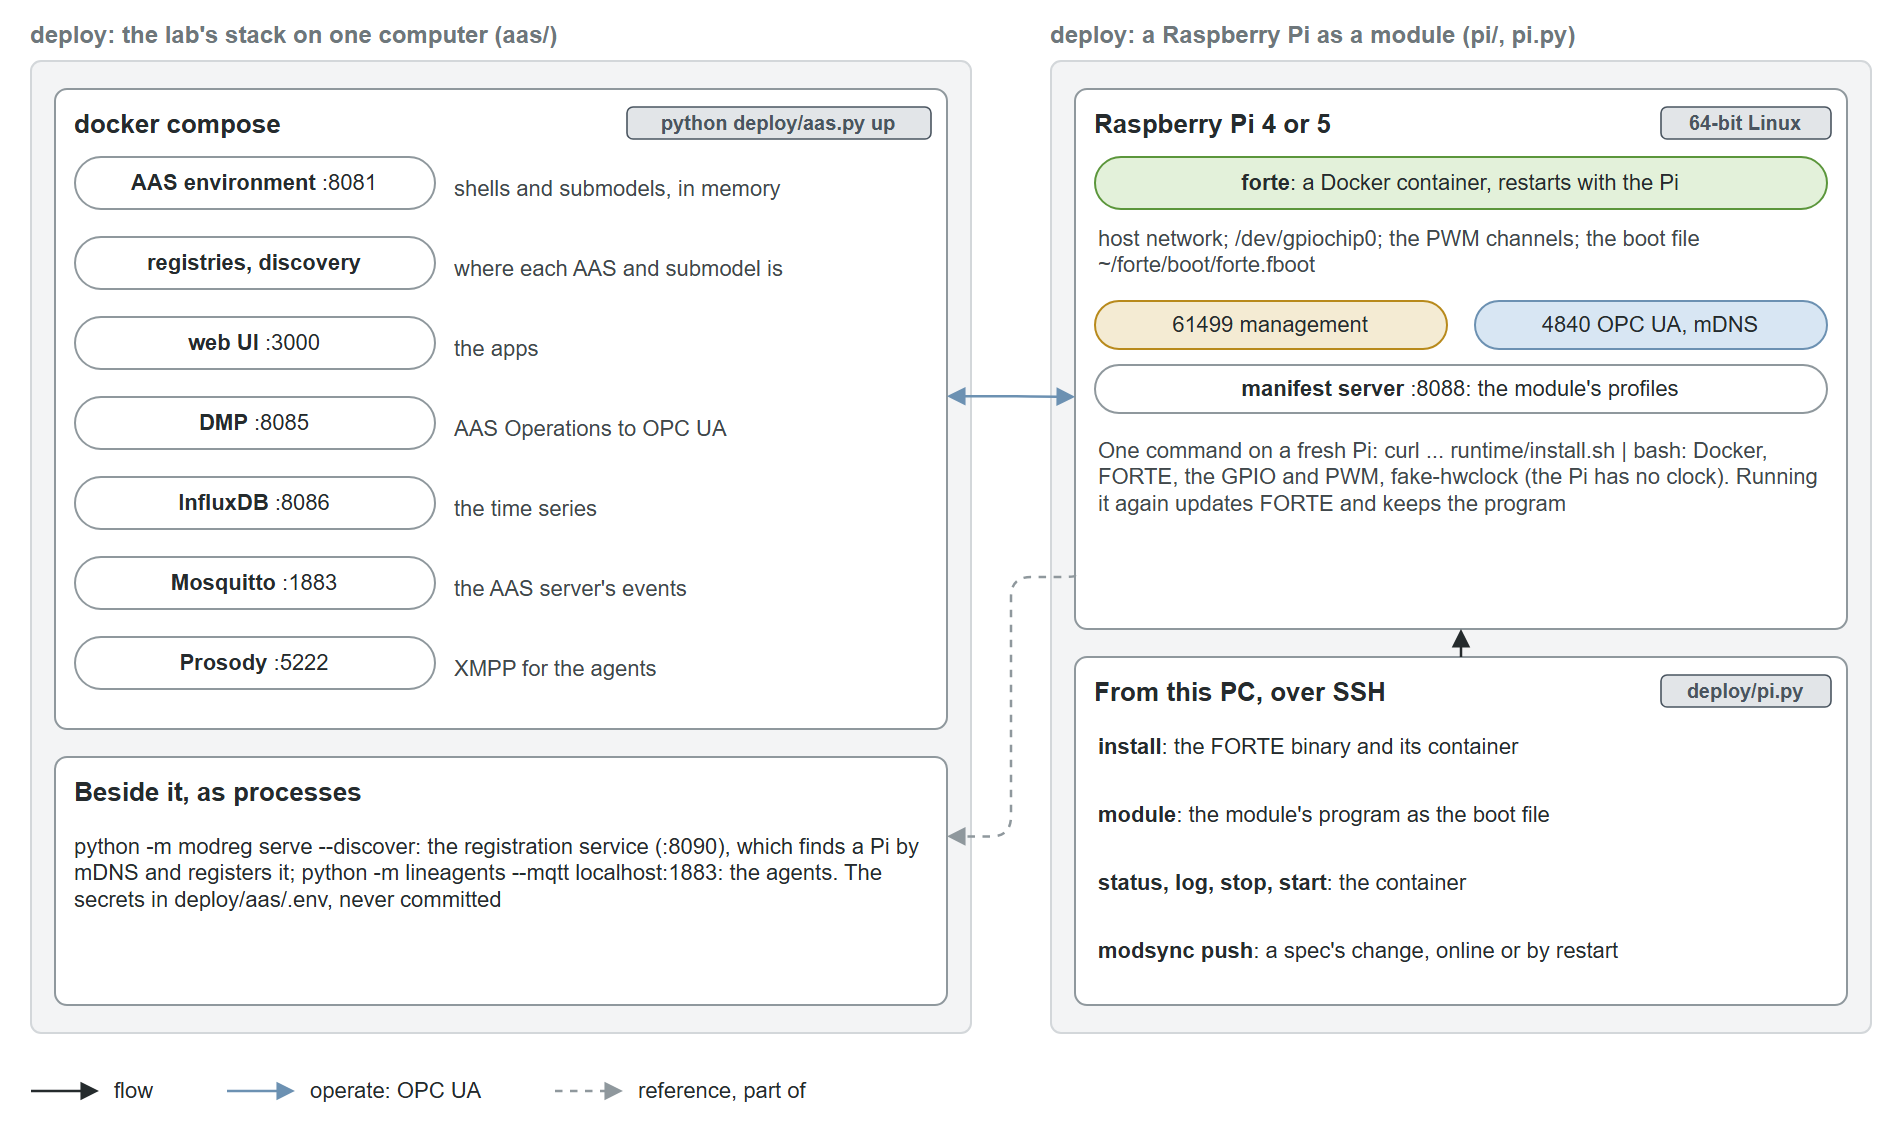
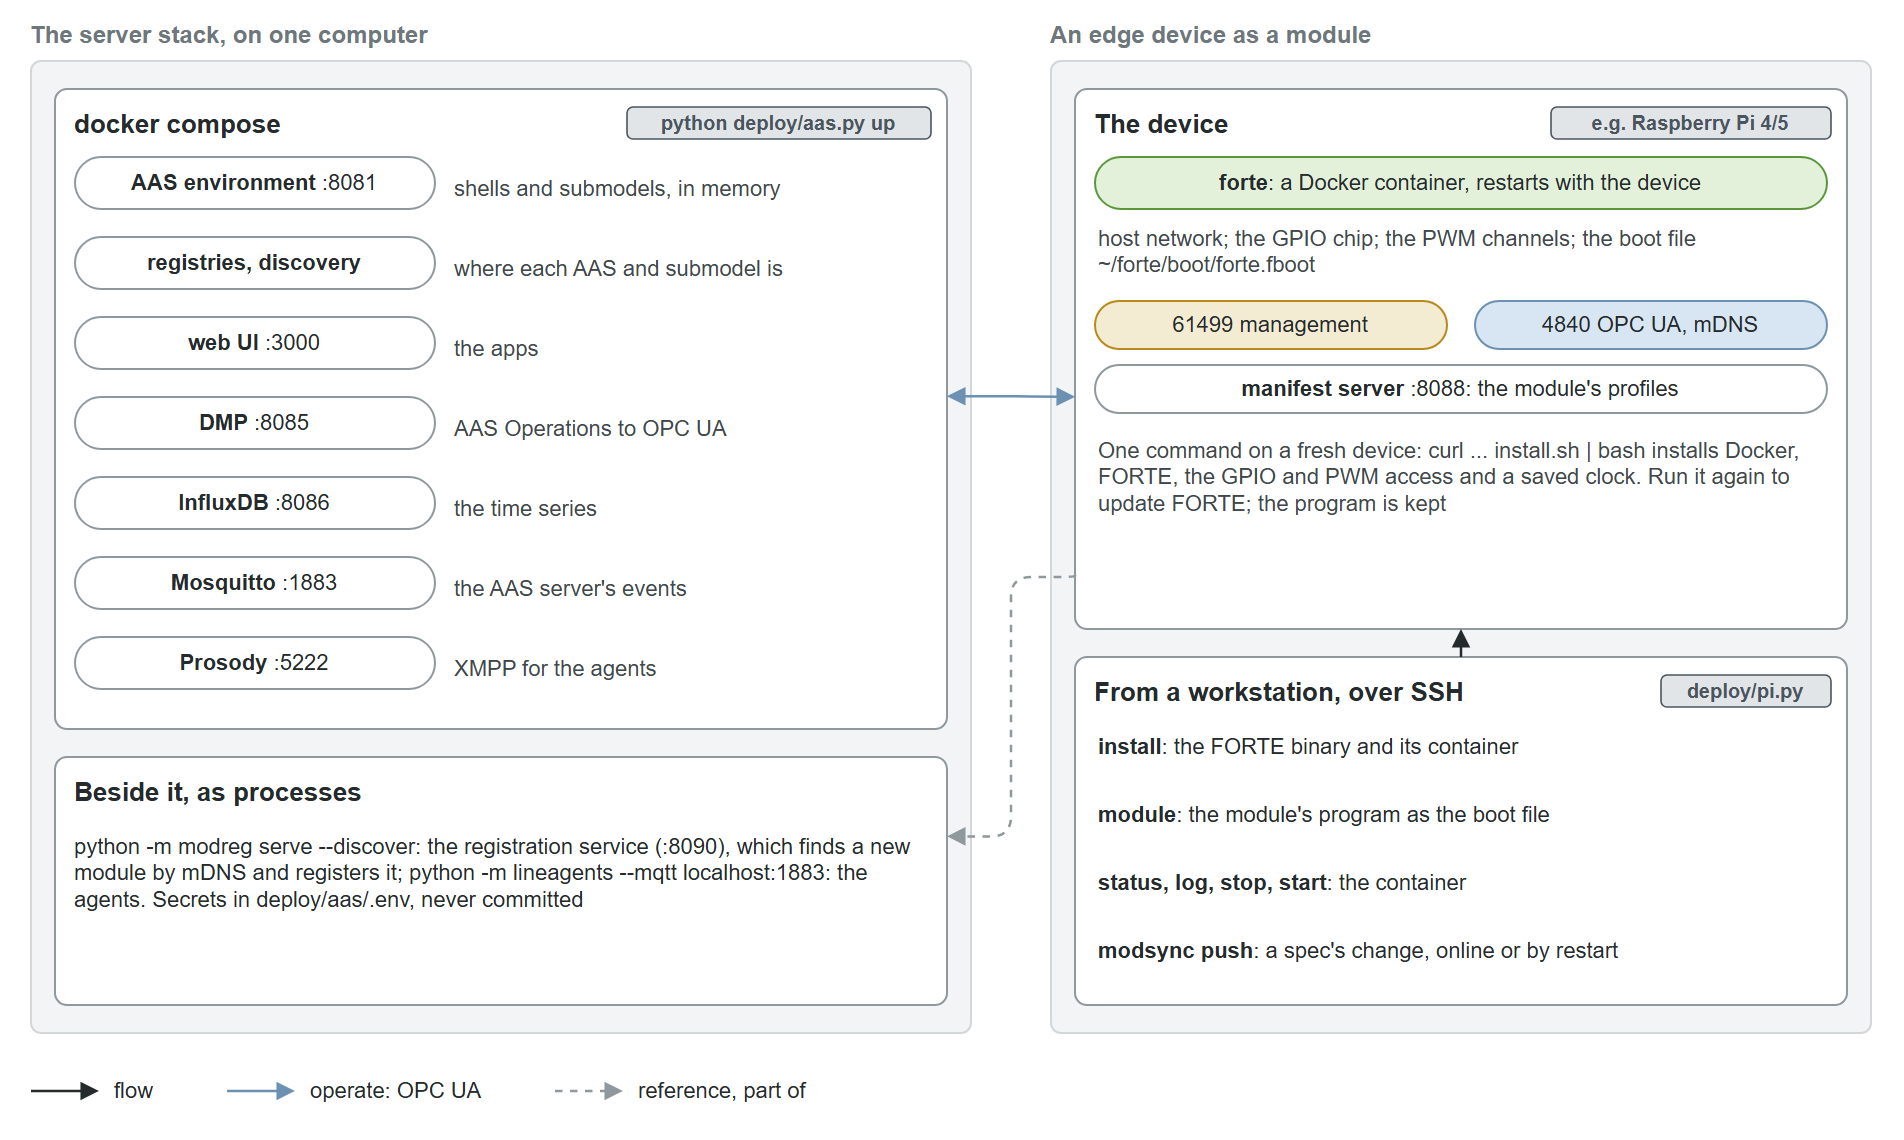
Deployment page and figure: the server stack and any edge device as a module

diff --git a/docs/deployment/deploy.md b/docs/deployment/deploy.md
@@ -1,15 +1,16 @@
 # Deployment
 
-<span class="pillar deployment">Deployment</span> Two halves: the server stack that holds the AASs and
-the services around them, started on one computer with Docker Compose (`deploy/aas`, the future
-`deploy-server`), and a Raspberry Pi turned into an IEC 61499 module (`deploy/pi`, `deploy/pi.py` and
-`runtime/install.sh`, the future `deploy-module`).
+<span class="pillar deployment">Deployment</span> A line needs two kinds of deployment: the server stack
+that holds the AASs and the services around them, started on one computer with Docker Compose, and each
+module's device, turned into an IEC 61499 module that runs FORTE. Repository
+[deploy](https://github.com/AAU-AASPIRE/deploy), with the device installer in
+[forte-runtime](https://github.com/AAU-AASPIRE/forte-runtime).
 
 <figure markdown="span">
-  [![The server stack's containers on the left with the processes beside it; the Raspberry Pi with its
-  FORTE container, ports and manifest server on the right, reached from the PC over SSH](../figures/deploy.png)](../figures/deploy.png)
-  <figcaption>The stack runs the AAS server, the DMP, the time series, the brokers and the web UI; a Pi
-  runs FORTE in a container and serves its module's profiles; the registration service finds it.</figcaption>
+  [![The server stack's containers on the left with the processes beside it; an edge device with its
+  FORTE container, ports and manifest server on the right, reached from a workstation over SSH](../figures/deploy.png)](../figures/deploy.png)
+  <figcaption>The stack runs the AAS server, the DMP, the time series, the brokers and the web UI; a
+  device runs FORTE in a container and serves its module's profiles; the registration service finds it.</figcaption>
 </figure>
 
 ## The server stack
@@ -24,51 +25,52 @@ the services around them, started on one computer with Docker Compose (`deploy/a
 | Mosquitto | 1883 | The AAS server's events (a shell or submodel created, changed, deleted) |
 | Prosody | 5222 | XMPP for the [agents](../execution/agents.md) |
 
+From the workspace folder:
+
 ```powershell
 python deploy/aas.py up                 # writes the secrets to deploy/aas/.env if there are none, starts it all
 python deploy/aas.py status             # the containers, and what the DMP made of the mappings
-python deploy/aas.py rows FillingModuleAAS   # a module's latest values
+python deploy/aas.py rows <Module>AAS   # a module's latest values
 python deploy/aas.py logs dmp
 python deploy/aas.py down
 ```
 
-Beside the stack run, as processes: the registration service (`python -m modreg serve --ontology
-ontology/ARSO --basyx http://localhost:8081 --discover`, port 8090) and the agents (`python -m lineagents
---aas http://localhost:8081 --mqtt localhost:1883`). The secrets are in `deploy/aas/.env`, never
-committed.
+Beside the stack, run as processes: the registration service (`python -m modreg serve --ontology
+ontologies/ARSO --basyx http://localhost:8081 --discover`, port 8090) and the agents (`python -m
+lineagents --aas http://localhost:8081 --mqtt localhost:1883`). The secrets are in `deploy/aas/.env`;
+never commit them.
 
-## A Raspberry Pi as a module
+## An edge device as a module
 
-A Raspberry Pi 4 or 5 with a 64-bit Linux becomes an IEC 61499 module with one command, run on the Pi
-by a user with sudo:
+Any 64-bit Linux device with GPIO can become an IEC 61499 module; the installer is made and tested for
+a Raspberry Pi 4 or 5. Run one command on the device, as a user with sudo:
 
 ```bash
 curl -fsSL https://raw.githubusercontent.com/AAU-AASPIRE/forte-runtime/main/install.sh | bash
 ```
 
 It installs Docker if it is missing, starts FORTE (with every module's block types) in a container that
-comes back after a reboot, gives it the GPIO lines of the 40-pin header and the two hardware PWM
-channels (reboot once for them), and keeps the clock across restarts (`fake-hwclock`: a Pi has no
-battery-backed clock). Running it again updates FORTE and keeps the program.
+comes back after a reboot, gives it the GPIO lines and the hardware PWM channels (reboot once for
+them), and keeps the clock across restarts (`fake-hwclock`, for devices without a battery-backed
+clock). Running it again updates FORTE and keeps the program.
 
-| On the Pi | |
+| On the device | |
 | --- | --- |
-| `~/forte` | The container (`docker compose ps`, `logs -f`): host network, `/dev/gpiochip0`, the PWM channels |
+| `~/forte` | The container (`docker compose ps`, `logs -f`): host network, the GPIO chip, the PWM channels |
 | `~/forte/boot/forte.fboot` | The module's program, loaded at every start |
-| port 61499 | FORTE's management protocol: no login, the lab's network only |
+| port 61499 | FORTE's management protocol: no login, keep it on a trusted network |
 | port 4840 | The module's OPC UA server, announced by mDNS |
 | port 8088 | The manifest: the profiles of the module's AASs, for discovery |
 
-From the PC, over SSH (the Pi's address and login from the module spec's `pi` target, or `--host` and
-`--user`):
+From a workstation, over SSH (the device's address and login come from the module spec's `pi` target,
+or `--host` and `--user`):
 
 ```powershell
-python deploy/pi.py install --spec cell/modules/stoppering.yaml --forte runtime/bin/forte-aarch64
-python deploy/pi.py module --spec cell/modules/stoppering.yaml    # the program as the boot file, FORTE restarted
-python deploy/pi.py status --spec cell/modules/stoppering.yaml
-python deploy/pi.py log --spec cell/modules/stoppering.yaml
+python deploy/pi.py install --spec <module-spec.yaml> --forte forte-runtime/bin/forte-aarch64
+python deploy/pi.py module --spec <module-spec.yaml>    # the program as the boot file, FORTE restarted
+python deploy/pi.py status --spec <module-spec.yaml>
+python deploy/pi.py log --spec <module-spec.yaml>
 ```
 
-Without `--spec` it uses the filling module. On a Raspberry Pi 5 the PWM channels are numbered
-differently (GPIO18 is channel 2), which the spec's `board: pi5` takes care of. Step by step:
-[a module on a Raspberry Pi](../how-to/raspberry-pi.md).
+On a Raspberry Pi 5 the PWM channels are numbered differently (GPIO18 is channel 2); set `board: pi5`
+in the spec's target. Step by step: [deploy a module to an edge device](../how-to/raspberry-pi.md).
